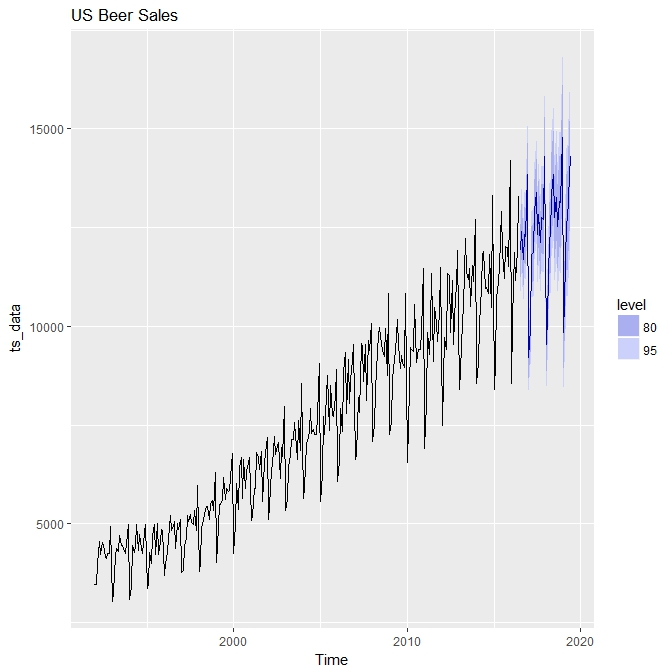
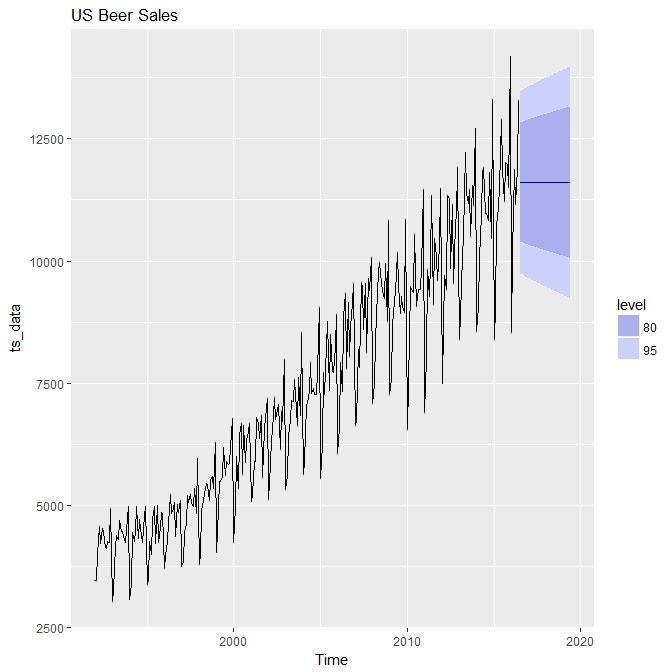
update R script

diff --git a/content/posts/2016-07-17-A-Primer-on-Time-Series-using-R-and-Python.md b/content/posts/2016-07-17-A-Primer-on-Time-Series-using-R-and-Python.md
@@ -3,7 +3,7 @@ title:  "A Primer on Time Series using R and Python"
 date:  2016-07-17
 categories: R, Python
 
-Time Series analysis is an area of data science which often gets overlooked. The majority of books and tutorials mainly focus on traditional <b> Classification </b> and <b> Regression </b> based problems. In this blog, we will look at variety of forecasting time series analysis utilizing the programming languages R and Python.
+Time Series is an area of data science which is often overlooked. The majority of books and tutorials mainly focus on traditional <b> Classification </b> and <b> Regression </b> based problems. In this blog, we will look at variety of forecasting time series techniques utilizing the programming languages R and Python.
 
 The topics to be covered include:
 
@@ -14,46 +14,49 @@ The topics to be covered include:
 * Holt's Winter method
 * ARIMA
 
-We will be using the daily US Beer Sales dataset  as a way of comparing each of the forecasting techniques. The data is comprised of 1992-2016 overtime as shown in the table below. Tha main packages used are <i>forecast</i> for R and <i>statsmodels for Python.
+We will be using the daily US Beer Sales dataset  as a way of comparing each of the forecasting techniques. The data is comprised of 1992-2016 overtime as shown in the table below. The main packages used are <i>forecast</i> package for R and <i>statsmodels package for Python.
 
 
-[]()
+![img](../post_img/timeseries_table.PNG)
 
+![img](../post_img/timeseries_plot1.jpeg)
 
 ## Naive Method
 
-The <b>Naive</b> approach is the most basic way to forecast, is to use the last data point available and forecast future values. The below code represents how simple the implementation is.
-
-	#Extract the last value
+The <b>Naive</b> approach is the most simplest forecasting technique, taking the last data point available and forecasting all future values based on this value. The below code represents how simplicity of the implementation. This method is most effective if the time series is quite stable overtime.
 
 	#R
-	data[nrow(data)-1,] 
-
+	data[nrow(data)-1,] #Extract the last value
+	
 	#Python
-	data[len(data)-1]
+	data[len(data)-1] #Extract the last value
+
+![img](../post_img/timeseries_naive.jpeg)
 
 ## Simple Average
 
-You can see how using <b>Naive</b> method might create some issues if the last value is unsually high or low. Another way to tackle this problem is to take a <b>Simple Average </b>, which is essentially calculated by taking an average of all previous values.
+You can see how using Naive method might create some issues if the last value is unusually high or low. Another way to tackle this problem is to take a <b>Simple Average </b>, which is calculated by taking an average of all previous values. This technique can smooth out volatility in the data.
 
 	#R
 	mean(data$value)
-
+	
 	#Python
 	data.value.mean()
 
+![img](../post_img/timeseries_simple_average.jpeg)
 
 ## Moving Average
 
-A variation to the Simple Average is the <b>Moving Average</b>. Using a specified window (e.g 12) take the average of those data points and then shift one point and repeat. The benefit of using a moving average is that it can capture the direction or also called the Trend of the data.
+A variation to the Simple Average is the <b>Moving Average</b>. Using a specified window (e.g 12) take the average of those data points and then shift one point and repeat. The benefit of using a moving average is that it can capture the direction or as it is also called "Trend" of the data.
 
 	#R
 	library(forecast)
 	ma(train$count, order = 12)
-
+	
 	#Python
 	train['Count'].rolling(12).mean()
 
+![img](../post_img/timeseries_moving_average.jpeg)
 
 ## Exponential Smoothing
 
@@ -61,12 +64,14 @@ We have looked at a few examples involving taking averages of past points, in ma
 
 	#R
 	library(forecast)
-	ses(data, alpha = 0.2, initital = "simple", h = 3)
+	ses(data, alpha = 0.2, initital = "simple", h = 36)
 	#Python
-
+	
 	from statsmodels.tsa.api import SimpleExpSmoothing
 	fit = SimpleExpSmoothing(np.asarray(train['Count'])).fit(smoothing_level = 0.2, optimzed = False)
 	fit.forecast(len(test))
+
+![img](../post_img/timeseries_exponential_smoothing.jpeg)
 
 ## Holt Winters
 
@@ -75,10 +80,16 @@ The <b>Holt Winters</b> technique extends the simple exponential smoothing. It c
 	#R
 	library(forecast)
 	fit <- hw(data, seasonal = "additive")
-
+	
+	# "ets" function is an automated version
+	ets_model <- ets(ts_data)
+	ets_forecast <- forecast(ets_model, h = 36)
+	
 	#Python
 	from statsmodel.tsa.api import ExponentialSmoothing
 	fit = ExponentialSmoothing(np.asarray(train['Count]), seasonal_period = 7, trend = 'add', seasonal = 'add')
+
+![img](../post_img/timeseries_holt_winters.jpeg)
 
 ## Arima
 
@@ -87,16 +98,19 @@ Another popular method is <b>Arima</b> which stands for <i> Autoregressive Integ
 	#R
 	library(forecast)
 	fit <- auto.arima(data)
-
+	
 	#Python
 	from statsmodels.tsa.statespace import SARIMAX
-
+	
 	fit = SARIMAX(train['count'], order = (2,1,4), seasonal_order = (0,1,1,7)).fit()
 
+![img](../post_img/timeseries_arima.jpeg)
 
 ## Conclusion
 
-In this blog we have explored a variety of different forecasting techniques which can be easily applied. The choose of technique depends on movements of your data, for example, determining whether there is a particular trend or seasonality. Benchmarking which is the best method depends on setting up  
+In this blog we have explored a variety of different forecasting techniques which can be easily applied. The choose of technique depends significantly on the data, for example, determining whether there is a particular trend or seasonality. 
+
+One of the main take always, is that there is not a single technique which is supreme but it depends on the particular dataset. Benchmarking each method such as determining which has the lowest <b>RMSE</b> is a strategy to determine which model to use.  
 
 
 

diff --git a/content/posts/2016-06-10-ATP-Tennis-Analysis.md b/content/posts/2016-06-10-ATP-Tennis-Analysis.md
@@ -13,7 +13,7 @@ The main package we’ll be using for this analysis is **tidyverse** by Hadley W
 
 The data set contains 46652 matches and 54 columns which is a decent amount of information to work with. Although there is quite a lot of features in the data set, I won’t be using all of them. The table below gives a small peak at what the data looks like. It has some useful information like the Winner, Loser, Tournament and even what Surface they played on.
 
-[![img](http://15-3692.ca.uts.edu.au/wp-content/uploads/sites/111/2017/04/Table1-1.png)](http://15-3692.ca.uts.edu.au/wp-content/uploads/sites/111/2017/04/Table1-1.png)
+![img](http://15-3692.ca.uts.edu.au/wp-content/uploads/sites/111/2017/04/Table1-1.png)
 
 There are some missing values so it’s a good idea to check which columns have missing values and how many are there. There are missing values in the columns W1 – L5 which is understandable as not every match ends up in 5 sets. The remaining columns are related to betting odds and so not every match contained
 
